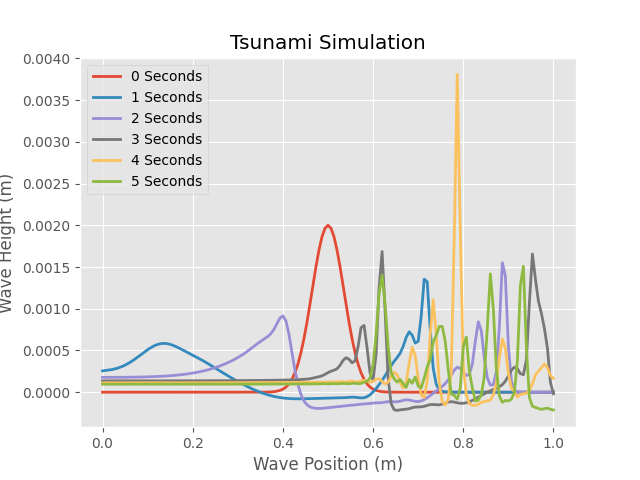
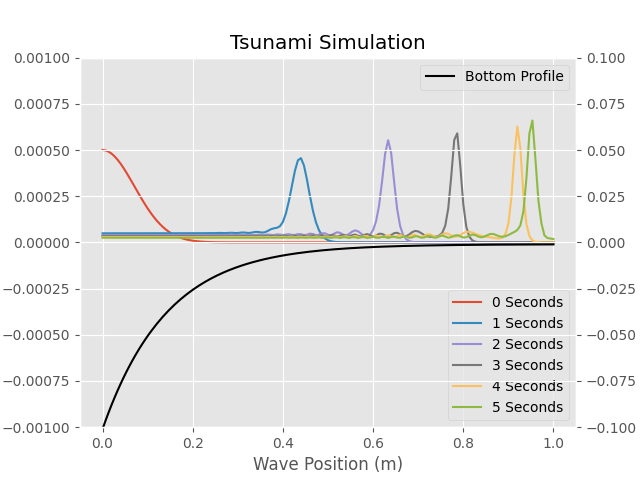
Update Project (Vectorized)

diff --git a/tsunami_simulator_1D_SWE.py b/tsunami_simulator_1D_SWE.py
@@ -1,4 +1,6 @@
 # Author: Alex Rigido
+# Please note, this will be the vectorized simulation for a
+# faster implementation and better run time.
 
 # import libraries & set plot styling
 import numpy as np
@@ -17,70 +19,90 @@ g = 9.81        # gravity
 # Time stamps for plotting
 time_stamps = np.arange(time_start, time_end + 1)
 
+# Define the position, speed, & space arrays
+x = np.arange(x_min, x_max + dx,dx)
+u = np.zeros_like(x)
+n = np.zeros_like(x)
+
+# define the bottom_topography for simulation
+height = np.clip(0.0005 + (0.01*(1-np.tanh(8*np.pi*(x-0.5)))), 0, 2)
+height[:] = 0.1*(np.exp(-x*7)) + 0.001
+
 # set up functions
 def wave_height(x):
-    ''' This function return the displacement of the wave assuming
+    ''' This function returns the displacement of the wave assuming
         the undisturbed surface of the wave is 0.'''
-    A = 0.002  # m
-    mu = 0.5  # m
-    sig = 0.05  # m
+    A = 0.0005  # m
+    mu = 0.0    # m
+    sig = 0.1   # m
     n = A * np.e **(-((x-mu)**2)/sig**2)
     return n
 
-def bottom_depth(x):
-    ''' This function return the depth of the bottom surface
-        assuming the undisturbed surface of the wave is 0.'''
-    if (x == 'flat'):
-        h = 1/100
-    else:
-        h = 0.001 + 0.1 * np.e**(-7*x)
-    return h
+def flux_step(U, gravity, height):
+    ''' This function is the flux step of the 2-Step Lax-Wendroff method and
+        returns flux calculated at a given time-step, where input U = U(u,n).'''
+    flux = np.zeros_like(U)
+    flux[0] = gravity * U[1] + 0.5*U[0]**2
+    flux[1] = (U[1] + height)*U[0]
+    return flux
 
+def lax_step(vector, dx, dt, gravity, height):
+    ''' This function is the lax step of the 2-Step Lax-Wendroff method and
+            returns the calculated lax-step for an inputted (2 X N) vector.'''
+    # compute midpoint averages
+    vector_midpoint = 0.5*(vector[:, :-1] + vector[:, 1:])
+    height_midpoint = 0.5*(height[1:] + height[:-1])
 
-def conservative_SWE(H, U):
-    ''' This function is the flux-conservative form of the 1D
-        swallow water equations.'''
-    # LHS
-    u = U[:,0]  # solving for u
-    n = U[:,1]  # time index
-    # RHS
-    F = np.zeros(U.shape)
-    F[:,0] = (u**2)/2 + n*g
-    F[:,1] = (H+n)*u
-    return F
+    # compute flux on boundaries
+    boundary_flux = flux_step(vector, gravity, height)
 
-# Define the time & space arrays
-x = np.arange(x_min, x_max + dx, dx)
-t = np.arange(time_start, time_end + dt, dt)
+    # compute centered differences
+    flux_midpoint = (boundary_flux[:,1:] - boundary_flux[:,:-1])
+    vector_half = vector_midpoint - dt * flux_midpoint / (2*dx)
+
+    # compute flux at half time & space
+    flux_half_height = flux_step(vector_half, gravity, height_midpoint)
+    flux_midpoint_center = (flux_half_height[:,1:] - flux_half_height[:,:-1])
+    flux_midpoint_step = np.zeros_like(vector)
+    flux_midpoint_step[:,1:-1] = flux_midpoint_center
+
+    # set boundary conditions
+    flux_midpoint_step[0,0] = 0
+    flux_midpoint_step[0,-1] = 0
+    flux_midpoint_step[1,0] = (boundary_flux[1,1] - boundary_flux[1,0])
+    flux_midpoint_step[1,-1] = (boundary_flux[1,-1] - boundary_flux[1,-2])
+
+    return vector - dt * flux_midpoint_step / dx
 
 # main algorithm (2-Step Lax-Wendroff)
-u = np.reshape(x*0, (x.shape[0], 1))
-n = np.reshape(wave_height(x), (x.shape[0], 1))
-U = np.concatenate((u, n), axis=1)
-x_values = []
+n = wave_height(x)      # initial wave height
+u[:] = 0                # assumed initial wave speed 0
+U = np.vstack([u, n])   # initial state of the system U(u,n)
 
-for n in range(0, len(t)):
-    # complete full step
-    F = conservative_SWE(bottom_depth(x), U)
-    U_half_step = np.zeros((U.shape[0] - 1, U.shape[1]))
-    U[0] = np.array([0, U[0, 1] - (dt/dx)*(F[1, 1] - F[0, 1])])
-    U[-1] = np.array([0, U[-1, 1] - (dt/dx)*(F[-1, 1] - F[-2, 1])])
-    # complete half step
-    U_half_step[0] = 0.5 * (U[1] + U[0]) - (dt / dx) * (F[1] - F[0])
-    U_half_step[-1] = 0.5 * (U[-2] + U[-1]) - (dt / dx) * (F[-1] - F[-2])
-    U_half_step[1:-1] = 0.5 * ((U[2:-1] + U[1:-2]) - (dt / dx) * (F[2:-1] - F[1:-2]))
-    F_half_step = conservative_SWE(bottom_depth(x[1:]), U_half_step)
-    # Store values
-    U[1:-1] = U[1:-1] - (dt/dx)*(F_half_step[1:] - F_half_step[:-1])
-    x_values.append(np.copy(U[:, 1]))
+# define the time array for iteration and initialize storage
+time_array = np.arange(time_start, time_end, dt)
+result = np.zeros((time_array.size, U.shape[0], U.shape[1]))
 
-# Plots
+# iteration through time array
+for i,t in enumerate(time_array):
+    U = lax_step(U, dx, dt, g, height)
+    result[i] = U
+
+# visualize simulation
 plt.figure()
 plt.title("Tsunami Simulation")
 plt.xlabel("Wave Position (m)")
+# add the wave height data
 plt.ylabel("Wave Height (m)")
+plt.ylim(-0.001,0.001)
 for stamp in time_stamps:
-    plt.plot(x, x_values[np.where(t == stamp)[0][0]], lw="2", label=(str(stamp) + " Seconds"))
+    plt.plot(x, result[int(stamp // dt), 1], label=(str(stamp) + " Seconds"))
+plt.legend(loc=4)
+# add the bottom topography
+plt.twinx()
+plt.plot(x,-height, color='black', label = "Bottom Profile")
+plt.ylabel("Bottom Height (m)")
+plt.ylim(-0.1,0.1)
 plt.legend()
 # plt.savefig("tsunami_simulation_SWE.png")
 plt.show()
